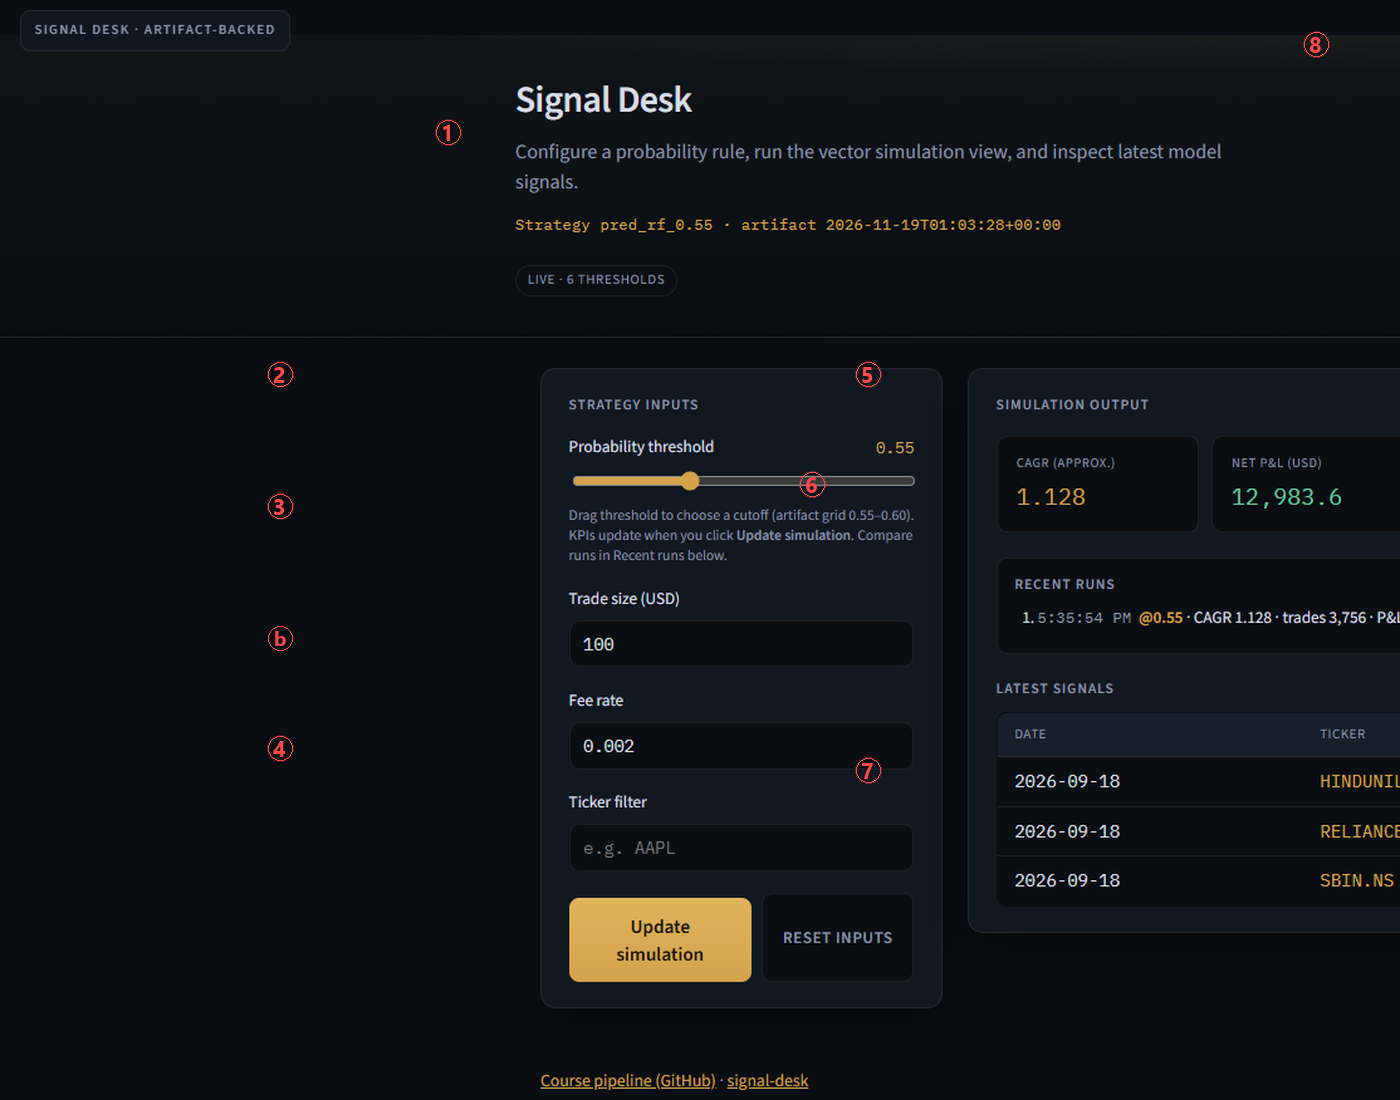
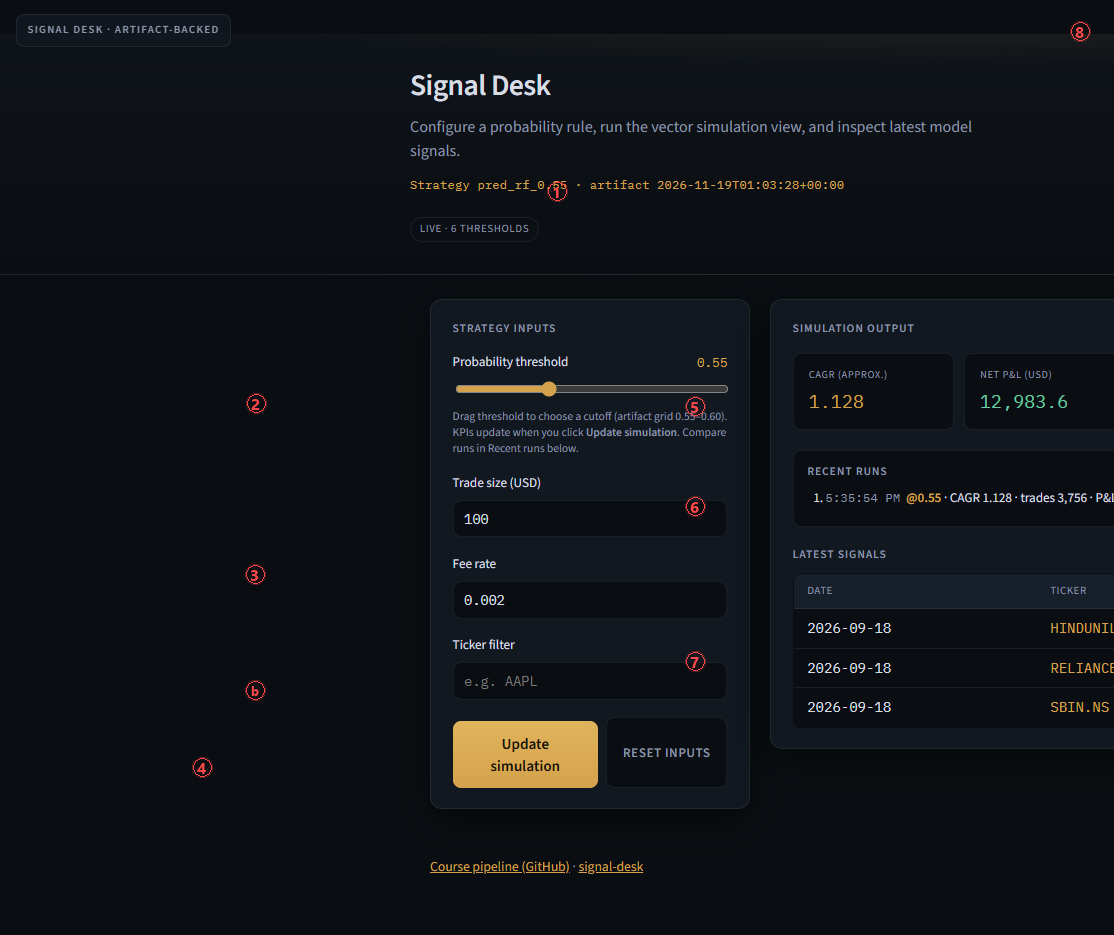
Desk neon callouts from marker_coords; Ops README 4-col table

diff --git a/ops/annotate_desk_preview.py b/ops/annotate_desk_preview.py
@@ -1,6 +1,7 @@
 """Numbered callouts on desk screenshot — thin red neon ring + red digit (no fill, no white halo)."""
 from __future__ import annotations
 
+import json
 from pathlib import Path
 
 from PIL import Image, ImageDraw, ImageFont
@@ -8,21 +9,10 @@ from PIL import Image, ImageDraw, ImageFont
 ROOT = Path(__file__).resolve().parents[1]
 SRC = ROOT / "docs" / "images" / "desk" / "desk-after-update.png"
 DST = ROOT / "docs" / "images" / "desk" / "desk-annotated.png"
+COORDS = ROOT / "docs" / "images" / "desk" / "marker_coords.json"
 
 NEON = (255, 72, 72, 255)
 NEON_GLOW = (255, 72, 72, 72)
-
-# Trimmed desk frame (~1400px wide); run ops/crop_desk_frame.py first.
-MARKERS: list[tuple[float, float, str]] = [
-    (0.32, 0.12, "1"),
-    (0.20, 0.34, "2"),
-    (0.20, 0.46, "3"),
-    (0.20, 0.68, "4"),
-    (0.62, 0.34, "5"),
-    (0.58, 0.44, "6"),
-    (0.62, 0.70, "7"),
-    (0.94, 0.04, "8"),
-]
 
 FONT_CANDIDATES = (
     "C:/Windows/Fonts/segoeuib.ttf",
@@ -57,28 +47,46 @@ def marker_box(
     return half, pad, side
 
 
+def load_markers() -> list[tuple[float, float, str, bool]]:
+    if COORDS.exists():
+        data = json.loads(COORDS.read_text(encoding="utf-8"))
+        out: list[tuple[float, float, str, bool]] = []
+        for m in data["markers"]:
+            out.append((float(m["x"]), float(m["y"]), str(m["label"]), bool(m.get("small", False))))
+        return out
+    raise FileNotFoundError(f"Missing {COORDS}")
+
+
+def draw_marker(
+    draw: ImageDraw.ImageDraw,
+    cx: int,
+    cy: int,
+    label: str,
+    font: ImageFont.FreeTypeFont | ImageFont.ImageFont,
+    *,
+    small: bool = False,
+) -> None:
+    f = load_font(max(10, int(font.size * 0.82))) if small else font
+    half, _, _ = marker_box(draw, label, f)
+    bbox = (cx - half, cy - half, cx + half, cy + half)
+    glow = (cx - half - 1, cy - half - 1, cx + half + 1, cy + half + 1)
+    draw.ellipse(glow, outline=NEON_GLOW, width=1)
+    draw.ellipse(bbox, outline=NEON, width=1)
+    draw.text((cx, cy), label, font=f, fill=NEON, anchor="mm")
+
+
 def main() -> None:
     im = Image.open(SRC).convert("RGBA")
     w, h = im.size
     overlay = Image.new("RGBA", im.size, (0, 0, 0, 0))
     draw = ImageDraw.Draw(overlay)
-    font_size = max(13, int(min(w, h) * 0.020))
+    font_size = max(13, int(min(w, h) * 0.018))
     font = load_font(font_size)
+    markers = load_markers()
 
-    for xp, yp, label in MARKERS:
-        cx = int(xp * w)
-        cy = int(yp * h)
-        half, _pad, _side = marker_box(draw, label, font)
-        bbox = (cx - half, cy - half, cx + half, cy + half)
-        glow = (cx - half - 1, cy - half - 1, cx + half + 1, cy + half + 1)
-        draw.ellipse(glow, outline=NEON_GLOW, width=1)
-        draw.ellipse(bbox, outline=NEON, width=1)
-        draw.text((cx, cy), label, font=font, fill=NEON, anchor="mm")
-
-    bx, by = int(0.20 * w), int(0.58 * h)
-    half, _, _ = marker_box(draw, "b", font)
-    draw.ellipse((bx - half, by - half, bx + half, by + half), outline=NEON, width=1)
-    draw.text((bx, by), "b", font=load_font(max(10, font_size - 2)), fill=NEON, anchor="mm")
+    for xp, yp, label, small in markers:
+        cx, cy = int(xp * w), int(yp * h)
+        draw_marker(draw, cx, cy, label, font, small=small)
 
     out = Image.alpha_composite(im, overlay).convert("RGB")
     DST.parent.mkdir(parents=True, exist_ok=True)

diff --git a/ops/ingest_screenshots.py b/ops/ingest_screenshots.py
@@ -1,0 +1,39 @@
+"""Copy dropped PNGs from docs/images/_incoming/ into desk + ops paths."""
+from __future__ import annotations
+
+import shutil
+from pathlib import Path
+
+ROOT = Path(__file__).resolve().parents[1]
+INC = ROOT / "docs" / "images" / "_incoming"
+
+MAP = {
+    "desk-after-update.png": ROOT / "docs/images/desk/desk-after-update.png",
+    "desk.png": ROOT / "docs/images/desk/desk-after-update.png",
+    "ops-inspector.png": ROOT / "docs/images/ops/ops-inspector.png",
+    "ops-log.png": ROOT / "docs/images/ops/ops-log.png",
+    "ops-api.png": ROOT / "docs/images/ops/ops-api.png",
+    "ops-grafana.png": ROOT / "docs/images/ops/ops-grafana.png",
+}
+
+
+def main() -> None:
+    if not INC.is_dir():
+        INC.mkdir(parents=True, exist_ok=True)
+        print(f"Created {INC} — drop PNGs here and re-run.")
+        return
+    copied = 0
+    for name, dst in MAP.items():
+        src = INC / name
+        if not src.exists():
+            continue
+        dst.parent.mkdir(parents=True, exist_ok=True)
+        shutil.copy2(src, dst)
+        print(f"Copied {name} -> {dst.relative_to(ROOT)}")
+        copied += 1
+    if not copied:
+        print("No files copied. Expected names:", ", ".join(MAP))
+
+
+if __name__ == "__main__":
+    main()

diff --git a/README.md b/README.md
@@ -231,21 +231,9 @@ Plain capture: [`docs/images/desk/desk-after-update.png`](docs/images/desk/desk-
 
 ### Ops overlay (Inspector · Log · API · Grafana)
 
-**Inspector** — last simulation snapshot, artifact meta, CAGR.
-
-![Inspector — full width](docs/images/ops/ops-inspector.png)
-
-**Log** — API calls from this browser session.
-
-![Log — full width](docs/images/ops/ops-log.png)
-
-**API** — routes, **Try**, sample responses ([OpenAPI `/docs`](https://signal-desk-c3dx.onrender.com/docs)).
-
-![API — full width](docs/images/ops/ops-api.png)
-
-**Grafana tab** — in-process board from `GET /ops/board` (not a separate Grafana server on Render).
-
-![Grafana tab — full width](docs/images/ops/ops-grafana.png)
+| Inspector | Log | API | Grafana tab |
+|:---:|:---:|:---:|:---:|
+| ![Inspector](docs/images/ops/ops-inspector.png) | ![Log](docs/images/ops/ops-log.png) | ![API](docs/images/ops/ops-api.png) | ![Grafana tab](docs/images/ops/ops-grafana.png) |
 
 [↑ Contents](#table-of-contents)
 
